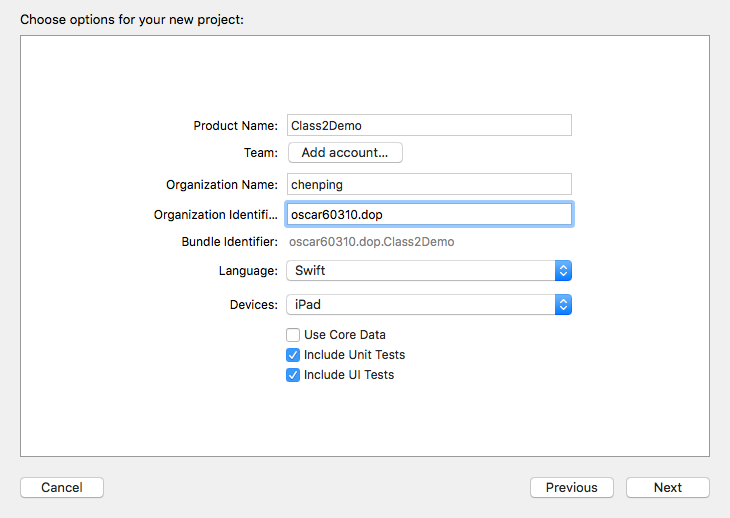
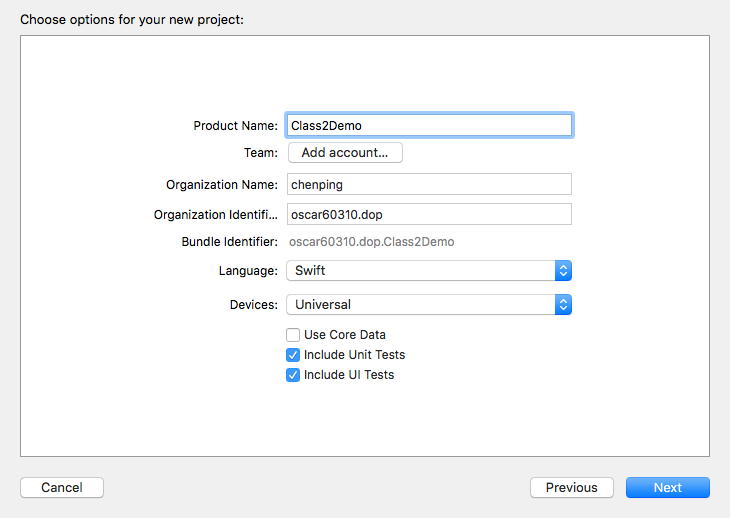
Updates w2/open.md
Auto commit by GitBook Editor

diff --git a/w2/open.md b/w2/open.md
@@ -5,12 +5,24 @@
 ![](/assets/w21.png)
 2. 選擇 iOS 頁籤下的 Single View Application。
 ![](/assets/w22.png)
-3. 填寫專案的相關資訊，Language 選擇 **Swift**，Device 選擇 **iPad**。
-> 這堂課我們先選 iPad 當作練習，這樣就不需要考慮 iPhone 視窗大小了
+3. 填寫專案的相關資訊，Language 選擇 **Swift**，Device 選擇 **Universal**。
+> Universal 能讓我們同時開發 iphone 和 iPad 的介面，但同時要考慮的事情也變多囉
 
 ![](/assets/w23.png)
 ## 實作頁面
 1. 開啟專案以後，大家應該可以看到跟下圖很像的介面，右上方（綠色部分）能讓你開啟／關閉區域。
+![](/assets/w24.png)
 > 為了方便教學，可以的話麻煩把左右區域打開，下方 debug area 關閉
 
-![](/assets/w24.png)
+2. 我們先來看看 `AppDelegate.swift` 這個檔案，這裡定義了程式開啟時要載入哪個頁面，程式關閉時要做什麼等等，全部都是以 func 形式表現。比如說下面這段
+```swift
+func application(_ application: UIApplication, didFinishLaunchingWithOptions launchOptions: [UIApplicationLaunchOptionsKey: Any]?) -> Bool {
+        // Override point for customization after application launch.
+        return true
+ }
+ ```
+當程式開啟時就會呼叫這個 function ，如果你要修改進入頁面的話，可以在這裡 Override 他。
+> 有看到 func 中參數部分前面有個底線嗎？ 猜猜看那代表什麼
+
+3. 接著我們來實作頁面，這個範例中我們使用 `StoryBoard` 來製作
+![](/assets/w25.png)
